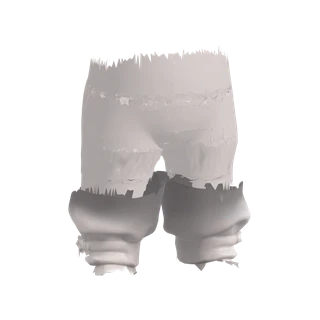
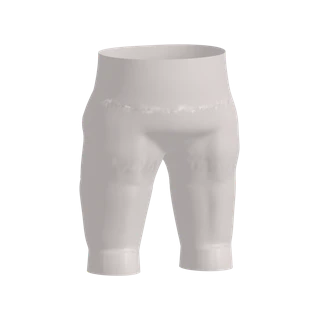
fix(art): 갓·도포 흰 바지를 몸 표면으로 새로 만들어 깔끔하게 (#331)
- Tripo 바지(도포 아래로 끊긴 윗부분, 두껍고 너덜한 아랫단) 대신 몸 표면을 넉넉한 바지 모양으로 부풀려 만듦(fit_outfit pants=1)
- 허리·발목을 수평으로 자르고 발목 끝은 신발 입구를 살짝 덮게 내림
- to_game: 줄이기 단계에서 옷의 열린 테두리(밑단·소매 끝)를 고정

diff --git a/tools/character/fit_outfit.py b/tools/character/fit_outfit.py
@@ -1,6 +1,6 @@
 """Fit a Tripo outfit (made in parts on the shared body's T-pose sheet) onto the shared layered build as item set
 <set>, for any outfit: -- <shared_layers.glb> <outfit_parts.glb> <out.glb> set=h map=HAIR:0,1;TOP:2,3;BOTTOM:4;SHOES:5
-       [s=1.0] [dx=0 dy=0 dz=0] [head_fit=N] [fill=BOTTOM] [sleeve_drape=1.0 sleeves=N,M] [skirt=TOP] [stiff=0.03] [boot_top=auto] [hair_hides_scalp=0]
+       [s=1.0] [dx=0 dy=0 dz=0] [head_fit=N] [pants=1] [fill=BOTTOM] [sleeve_drape=1.0 sleeves=N,M] [skirt=TOP] [stiff=0.03] [boot_top=auto] [hair_hides_scalp=0]
 
 The common steps of add_set.py (the general's script) without its general-only fixes (docs/character-outfits.md):
 - the outfit, scaled by s about the ground origin and moved by dx/dy/dz, lies on the shared body (check with
@@ -182,6 +182,112 @@ def leading_bones(o):
     gname = {g.index: g.name[len('mixamorig:'):] for g in o.vertex_groups if g.name.startswith('mixamorig:')}
     return [max(((e.weight, gname[e.group]) for e in v.groups if e.group in gname), default=(0, ''))[1] for v in o.data.vertices]
 
+def lit_texel(it):
+    """The UV of the item's lit cloth colour: the texel nearest the median of its brightest fifth (the brighter half
+    read grey)."""
+    img = next(n.image for m in it.data.materials for n in m.node_tree.nodes if n.type == 'TEX_IMAGE' and n.image)
+    w_, h_ = img.size; P = np.array(img.pixels[:], np.float32).reshape(h_, w_, -1)[..., :3]
+    uvd = it.data.uv_layers.active.data
+    cs = np.array([P[min(h_ - 1, int(uvd[li].uv[1] * h_)), min(w_ - 1, int(uvd[li].uv[0] * w_))] for li in range(0, len(uvd), 7)])
+    light = cs[cs.mean(1) >= np.percentile(cs.mean(1), 80)]; med = np.median(light, 0)
+    return tuple(uvd[int(np.argmin(((cs - med) ** 2).sum(1))) * 7].uv), med
+
+def on_texel(o, like, uv0):
+    """o's faces on one texel of item `like`'s own material and UV layer."""
+    o.data.materials.clear(); o.data.materials.append(like.data.materials[0])
+    name = like.data.uv_layers.active.name
+    for u in list(o.data.uv_layers): o.data.uv_layers.remove(u)
+    lay = o.data.uv_layers.new(name=name)
+    for d in lay.data: d.uv = uv0
+
+# pants=1 (the gat's baji): the trousers are made from the body itself, not from Tripo. Tripo's baji stopped at the
+# robe's hem and its lower legs were bulky with ragged tops; filled from the body above them, the two met in a step
+# with white shards along the seam (user: "the trousers look too strange"). Here every body face the bottom hides
+# (the same region rule as the cover below) is let out from its leg's axis by a loose profile: snug at the hips,
+# full at the thighs and knees (pants_full, 1.45), gathered at the ankle; the inner side lets out less
+# (pants_inner, 0.35 of it) so the legs do not cross. Smoothed, on one texel of Tripo's own baji colour.
+if opt.get('pants', '0') == '1' and 'BOTTOM' in G:
+    old = G['BOTTOM']; uv0, med = lit_texel(old)
+    lead = leading_bones(src_obj)
+    cut_z = boot_top + float(opt.get('pants_cut', 0.03)); hem_z = boot_top - float(opt.get('pants_hem', 0.005))
+    pick = []
+    for p in src_obj.data.polygons:
+        votes = {}
+        for vi in p.vertices: votes[lead[vi]] = votes.get(lead[vi], 0) + 1
+        bone_ = max(votes, key=votes.get)
+        # (and the ankle's front above the cut: the foot leads there up to 4 cm over the shoes' rim, and without it
+        # the cut ring had a toothed hole above it)
+        if (bone_ in BOTTOM_BONES and p.center.z > boot_top) or (bone_ in FOOT_BONES and p.center.z > cut_z - 0.008):
+            pick.append(p.index)
+    # the waist: the region's top is a sawtooth too. It is cut level just over its highest tooth (waist_cut), the
+    # trunk's faces up to there taken in, so the pants still cover every body face they hide.
+    hip_z = J['LeftUpLeg'].z
+    pk = set(pick); ecount = {}
+    for i in pick:
+        for ek in src_obj.data.polygons[i].edge_keys: ecount[ek] = ecount.get(ek, 0) + 1
+    top_z = max(src_obj.data.vertices[vi].co.z for ek, n in ecount.items() if n == 1 for vi in ek
+                if src_obj.data.vertices[vi].co.z > hip_z)
+    waist_cut = top_z + 0.004
+    for p in src_obj.data.polygons:
+        if p.index in pk: continue
+        votes = {}
+        for vi in p.vertices: votes[lead[vi]] = votes.get(lead[vi], 0) + 1
+        if max(votes, key=votes.get) in TOP_BONES and hip_z < p.center.z < waist_cut + 0.015: pick.append(p.index)
+    pt = src_obj.copy(); pt.data = src_obj.data.copy(); bpy.context.scene.collection.objects.link(pt)
+    pb_ = bmesh.new(); pb_.from_mesh(pt.data); pb_.faces.ensure_lookup_table(); keep_ = set(pick)
+    bmesh.ops.delete(pb_, geom=[f for f in pb_.faces if f.index not in keep_], context='FACES')
+    bmesh.ops.remove_doubles(pb_, verts=pb_.verts, dist=1e-5)
+    for _ in range(3): bmesh.ops.smooth_vert(pb_, verts=[v for v in pb_.verts if not v.is_boundary], factor=0.5,
+                                             use_axis_x=True, use_axis_y=True, use_axis_z=True)
+    FULL, INNER = float(opt.get('pants_full', 1.45)), float(opt.get('pants_inner', 0.35))
+    hip_z, ankle_z = J['LeftUpLeg'].z, J['LeftFoot'].z
+    def profile(z):
+        t = (z - ankle_z) / (hip_z - ankle_z)
+        pts = [(-1, 1.04), (0.0, 1.04), (0.1, 1.3), (0.45, FULL), (0.85, FULL * 0.9), (1.0, 1.2), (1.3, 1.08), (9, 1.08)]
+        for (t0, f0), (t1, f1) in zip(pts, pts[1:]):
+            if t <= t1: return f0 + (f1 - f0) * (t - t0) / (t1 - t0)
+    def axis_point(co):
+        side = 'Left' if co.x > 0 else 'Right'
+        if co.z >= hip_z: return Vector((0.0, J['Hips'].y, co.z))        # the hips: about the body's own vertical axis
+        a0, a1 = (J[f'{side}UpLeg'], J[f'{side}Leg']) if co.z >= J[f'{side}Leg'].z else (J[f'{side}Leg'], J[f'{side}Foot'])
+        ax = (a1 - a0); t = max(0.0, min(1.0, (co - a0).dot(ax) / ax.length_squared))
+        return a0 + ax * t
+    for v in pb_.verts:
+        c0 = axis_point(v.co); off = v.co - c0
+        f = profile(v.co.z)
+        # inward (toward the midline, below the hips) lets out less
+        if v.co.z < hip_z and off.x * v.co.x < 0:
+            f = 1 + (f - 1) * INNER
+        v.co = c0 + off * f
+    bmesh.ops.bisect_plane(pb_, geom=pb_.verts[:] + pb_.edges[:] + pb_.faces[:], plane_co=(0, 0, waist_cut), plane_no=(0, 0, 1), clear_outer=True)
+    # the hem: the body's own cut over the shoes' rim is a sawtooth up to a face's height (1.5 cm). The legs are cut
+    # level pants_cut (3 cm) over the rim, above every tooth, and each leg's cut ring is carried straight down to
+    # pants_hem (5 mm) under the rim, let out a little (pants_flare) so the hem lies over the shoe's opening
+    # (remapping the teeth level left strands; taking the ankles too covered the feet; a hem drawn in under the rim
+    # showed through low shoes' openings as stripes).
+    bmesh.ops.bisect_plane(pb_, geom=pb_.verts[:] + pb_.edges[:] + pb_.faces[:], plane_co=(0, 0, cut_z), plane_no=(0, 0, 1), clear_inner=True)
+    ring = [e for e in pb_.edges if e.is_boundary and all(v.co.z < cut_z + 1e-4 for v in e.verts)]
+    ext = bmesh.ops.extrude_edge_only(pb_, edges=ring)
+    hem = [g for g in ext['geom'] if isinstance(g, bmesh.types.BMVert)]
+    for v in hem:
+        c0 = axis_point(Vector((v.co.x, v.co.y, hem_z))); v.co = c0 + (Vector((v.co.x, v.co.y, hem_z)) - c0) * float(opt.get('pants_flare', 1.06))
+    loops = sum(1 for e in pb_.edges if e.is_boundary and all(abs(v.co.z - hem_z) < 1e-4 for v in e.verts))
+    # (the extruded band's faces came out wound either way: their flipped normals shaded as stripes)
+    bmesh.ops.recalc_face_normals(pb_, faces=pb_.faces[:])
+    pb_.normal_update()
+    for v in pb_.verts: v.co += v.normal * 0.003
+    # (the cut ring and the hem band stay out of the smoothing: pulled between the leg and the hem, they went ragged)
+    for _ in range(4): bmesh.ops.smooth_vert(pb_, verts=[v for v in pb_.verts if not v.is_boundary and v.co.z > cut_z + 0.004],
+                                             factor=0.5, use_axis_x=True, use_axis_y=True, use_axis_z=True)
+    print('PANTS waist cut level at z', round(waist_cut, 3))
+    print('PANTS hem', len(hem), 'vertices (', loops, 'edges ) cut at z', round(cut_z, 3), 'down to', round(hem_z, 3), '; cut ring', len(ring), 'edges')
+    pb_.to_mesh(pt.data); pb_.free()
+    for g in list(pt.vertex_groups): pt.vertex_groups.remove(g)
+    on_texel(pt, old, uv0)
+    pt.vertex_groups.new(name='part:pants').add(list(range(len(pt.data.vertices))), 1.0, 'REPLACE')
+    name = old.name; bpy.data.objects.remove(old); pt.name = name; G['BOTTOM'] = pt
+    print('PANTS', len(pick), 'body faces, colour', med.round(2).tolist())
+
 # fill=BOTTOM (the gat's trousers): Tripo makes only what the sheet shows, so trousers under a long robe stop at the
 # robe's hem; worn with a short top the hidden hips and thighs were holes (the body is hidden under the whole
 # bottom). The body faces the bottom hides but its own geometry does not cover (no hit within 4 cm along the
@@ -208,20 +314,7 @@ for slot in [x for x in opt.get('fill', '').split(',') if x]:
                                              use_axis_x=True, use_axis_y=True, use_axis_z=True)
     fb.to_mesh(fl.data); fb.free()
     for g in list(fl.vertex_groups): fl.vertex_groups.remove(g)
-    # the item's own light cloth: the texel nearest the median of its brighter half
-    img = next(n.image for m in it.data.materials for n in m.node_tree.nodes if n.type == 'TEX_IMAGE' and n.image)
-    w_, h_ = img.size; P = np.array(img.pixels[:], np.float32).reshape(h_, w_, -1)[..., :3]
-    uvd = it.data.uv_layers.active.data
-    cs = np.array([P[min(h_ - 1, int(uvd[li].uv[1] * h_)), min(w_ - 1, int(uvd[li].uv[0] * w_))] for li in range(0, len(uvd), 7)])
-    # (its lit side: the median of the brightest fifth; the median of the brighter half read grey)
-    light = cs[cs.mean(1) >= np.percentile(cs.mean(1), 80)]; med = np.median(light, 0)
-    k_ = int(np.argmin(((cs - med) ** 2).sum(1))) * 7
-    uv0 = tuple(uvd[k_].uv)
-    fl.data.materials.clear(); fl.data.materials.append(it.data.materials[0])
-    name = it.data.uv_layers.active.name
-    for u in list(fl.data.uv_layers): fl.data.uv_layers.remove(u)
-    lay = fl.data.uv_layers.new(name=name)
-    for d in lay.data: d.uv = uv0
+    uv0, med = lit_texel(it); on_texel(fl, it, uv0)
     fl.vertex_groups.new(name='part:fill_' + slot).add(list(range(len(fl.data.vertices))), 1.0, 'REPLACE')
     for x in bpy.data.objects: x.select_set(x in (it, fl))
     bpy.context.view_layer.objects.active = it; bpy.ops.object.join()
@@ -251,7 +344,10 @@ if DRAPE != 1.0 and 'TOP' in G:
 for slot, it in G.items():
     lo, to = (-0.03, 0.004) if slot == 'HAIR' else (-0.004, 0.002)
     moved = 0
+    # (made pants are laid out from the body already; pushed, their hem drawn in under the shoes' rim scattered)
+    made = it.vertex_groups['part:pants'].index if 'part:pants' in it.vertex_groups else None
     for v in it.data.vertices:
+        if made is not None and any(e.group == made for e in v.groups): continue
         loc, n, fi, d = body_bvh.find_nearest(v.co)
         if loc is None or d > 0.05: continue
         nf = body_fn[fi]; s_ = (v.co - loc).dot(nf)

diff --git a/tools/character/to_game.py b/tools/character/to_game.py
@@ -154,6 +154,13 @@ def decimate(o, faces, keep_edges=False):
             seams = {vi for vi, us in cuv.items() if len(us) > 1}
             print('DECIMATE seams', len(seams), 'of', len(o.data.vertices))
             hold |= seams
+            # open edges too (hems, cuffs): collapsed, the gat's trouser hem went into a zigzag with strands under it
+            ec = {}
+            for p in o.data.polygons:
+                for ek in p.edge_keys: ec[ek] = ec.get(ek, 0) + 1
+            rim = {vi for ek, n in ec.items() if n == 1 for vi in ek}
+            print('DECIMATE open-edge vertices', len(rim))
+            hold |= rim
         if PIECES:
             # piece boundaries: the game hides pieces one by one; collapsed across a boundary, a shown piece's
             # edge would move and open a crack against its hidden neighbour's replacement
